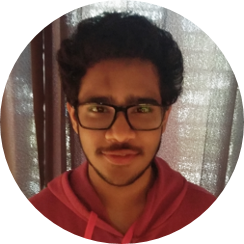
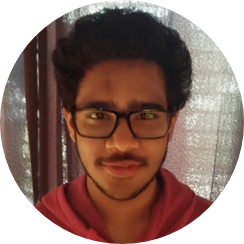
Updated profile picture

diff --git a/index.html b/index.html
@@ -30,7 +30,7 @@
     <div class="wrapper">
         <div class="sidebar-wrapper">
             <div class="profile-container">
-                <img class="profile" src="assets/images/profile.png" alt="" />
+                <img class="profile" src="assets/images/profile.png" alt="" style="width: 160px;height: 160px;" />
                 <h1 class="name">Prithvi Anand</h1>
                 <h3 class="tagline">Full Stack Developer</h3>
             </div><!--//profile-container-->
